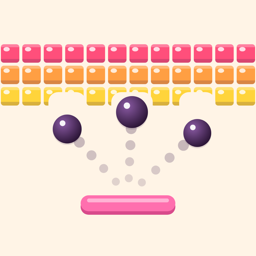
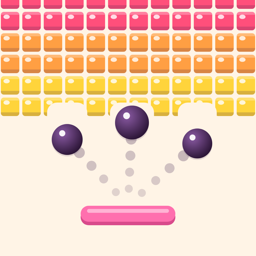
Add files via upload

diff --git a/privacy/index.html b/privacy/index.html
@@ -112,7 +112,9 @@
   <p>The game asks for no special permissions: no camera, microphone,
   location, contacts, photos or files. It plays offline. The only
   connection it makes is to the Google Play or App Store app on your
-  device, to buy or restore purchases.</p>
+  device: to buy or restore purchases, and now and then to show the
+  store's own rating card. A rating you leave goes to the store, which
+  publishes it; the game never sees it.</p>
 
   <h2>Children</h2>
   <p>Brick Swarm is suitable for all ages. Because it collects no personal
